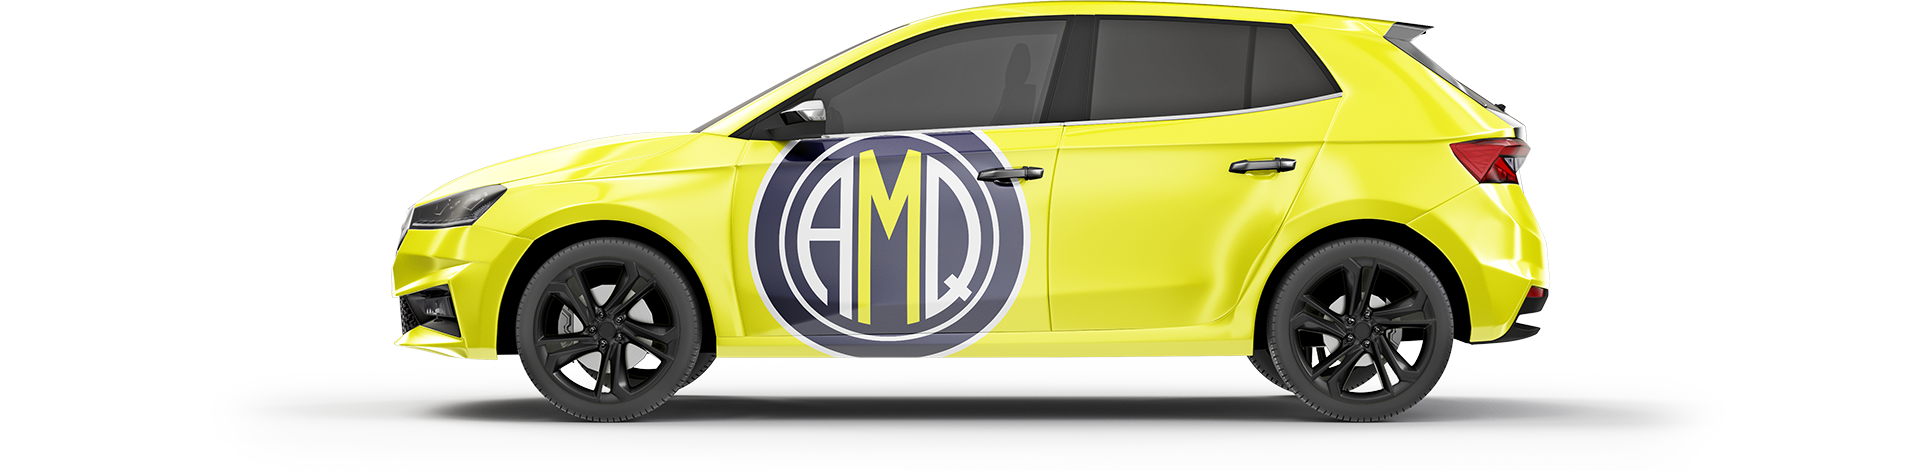
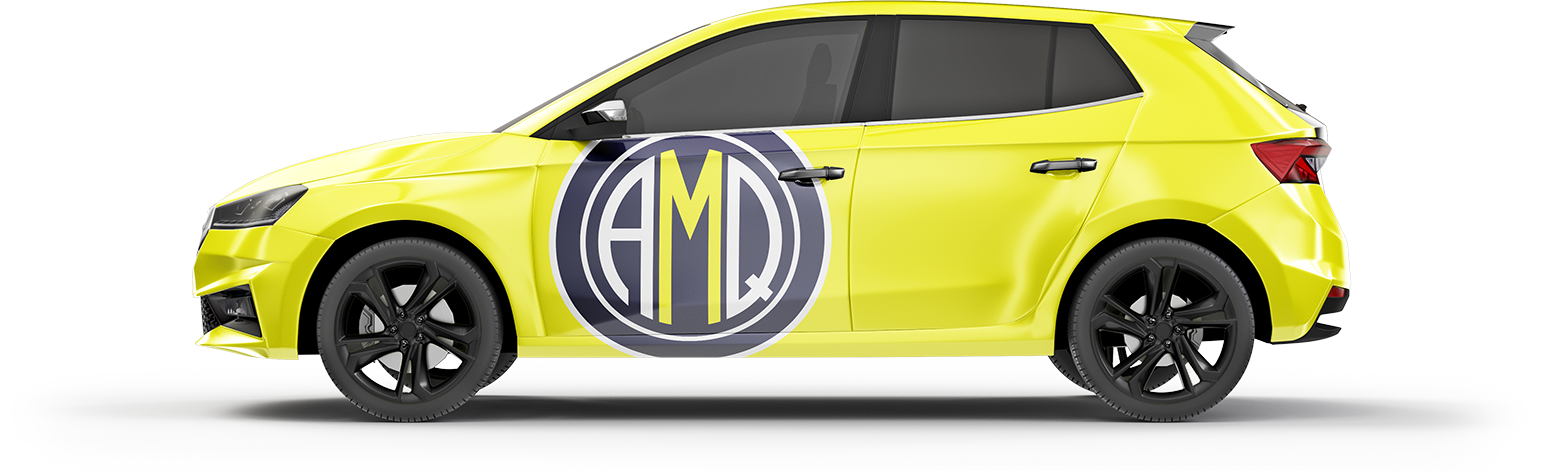
feat: add cta #2 section to home page

diff --git a/_components/home-page/cta-2-component.tsx b/_components/home-page/cta-2-component.tsx
@@ -1,0 +1,39 @@
+import Image from "next/image";
+import Link from "next/link";
+
+const Cta2Component = () => {
+  return (
+    <section className="relative -mx-5 overflow-hidden bg-blue pt-10 grid gap-8 desktop-small:grid-cols-[1fr_0.75fr] desktop-small:h-[480px] desktop-small:gap-0 desktop-small:-mx-50px desktop:h-[600px] desktop-large:grid-cols-[1fr_0.5fr] desktop-large:h-[700px]">
+      <h4 className="text-[40px] px-5 leading-[120%] tablet-small:text-[50px] text-white flex flex-col text-center desktop-small:pl-50px desktop-small:my-auto desktop-small:text-left min-[1350px]:text-[60px] desktop-large:text-[70px] full-hd:text-[90px]">
+        Sell your car with
+        <span className="text-yellow">Auto Marketplace QLD</span>
+        <Link
+          href="#"
+          aria-label="Sell My Car"
+          className="flex justify-center gap-1 p-2 -m-2 mx-auto text-white desktop-small:justify-start desktop-small:p-0 desktop-small:m-0 desktop-small:gap-2 desktop-small:mr-auto desktop-small:hover:text-yellow ease-in-out duration-300"
+        >
+          Sell My Car
+          <Image
+            src="/icons/click-bold-yellow.svg"
+            alt="Sell My Car"
+            width={166}
+            height={134}
+            className="w-[76px] h-auto -translate-y-1 desktop-small:translate-y-2 desktop-small:w-[90px] desktop:w-[100px] desktop-large:w-[120px] desktop-large:translate-y-2 desktop-large:translate-x-2 full-hd:w-[166px] full-hd:translate-y-4 full-hd:translate-x-4"
+          />
+        </Link>
+      </h4>
+      <div className="relative flex justify-center items-center desktop-small:block desktop-small:pb-0 desktop-small:place-self-center desktop-small:z-10">
+        <Image
+          src="/images/graphics/05a.png"
+          alt="Sell my car"
+          width={1500}
+          height={600}
+          className="w-full h-auto flex-shrink-0 desktop-small:absolute desktop-small:min-w-[1270px] desktop-small:-left-[420px] desktop-small:-top-[190px] desktop:min-w-[1470px] desktop:-top-[230px] desktop:-left-[35vw] desktop-large:min-w-[1750px] desktop-large:-top-[240px] desktop-large:-left-[40vw] full-hd:-left-[520px] full-hd:min-w-[1500px]"
+        />
+      </div>
+      <div className="bg-yellow h-[calc(100px+10vw)] -mt-[calc(40px+5vw)] tablet-small:-mt-[calc(50px+5vw)] desktop-small:mt-0 desktop-small:absolute desktop-small:w-1/4 desktop-small:h-full desktop-small:right-[50px]" />
+    </section>
+  );
+};
+
+export default Cta2Component;

diff --git a/_components/home-page/cta-component.tsx b/_components/home-page/cta-component.tsx
@@ -9,18 +9,18 @@ const CtaComponent = () => {
   const [ctaHover, setCtaHover] = useState(false);
 
   return (
-    <section className="-mx-5 desktop-small:-mx-50px desktop-small:relative desktop-small:h-[400px] desktop:h-[620px]">
+    <section className="-mx-5 overflow-hidden desktop-small:-mx-50px desktop-small:relative desktop-small:h-[400px] desktop:h-[620px]">
       <div className="bg-blue py-10 grid gap-8 desktop-small:grid-cols-[350px_1fr] desktop-small:h-full desktop:grid-cols-[450px_1fr] desktop-large:grid-cols-[440px_1fr]">
         <h4 className="text-[60px] px-5 leading-[120%] text-white flex flex-col text-center desktop-small:place-self-center desktop-small:text-left desktop-small:px-0 desktop-small:pl-50px desktop:text-[90px]">
           We sell <span className="text-yellow">so you don't have to.</span>
         </h4>
-        <div className="relative pb-[150px] min-[550px]:pb-[calc(24vw)] desktop-small:pb-0 desktop-small:place-self-center">
+        <div className="relative flex justify-center items-center desktop-small:block desktop-small:pb-0 desktop-small:place-self-center">
           <Image
             src="/images/graphics/05a.png"
             alt="Sell my car"
             width={1500}
             height={600}
-            className="min-w-[580px] h-auto absolute -left-24 min-[400px]:-left-20 phone:-left-14 min-[460]:-left-10 min-[500px]:-left-4 min-[550px]:left-0 desktop-small:min-w-[1200px] desktop-small:-left-[610px] desktop-small:-top-[130px] desktop:min-w-[1700px] desktop:-top-[160px] desktop:-left-[850px] desktop-large:min-w-[1920px] desktop-large:-top-[200px] desktop-large:-left-[1025px]"
+            className="w-full h-auto flex-shrink-0 desktop-small:absolute desktop-small:min-w-[970px] desktop-small:-left-[480px] desktop-small:-top-[130px] desktop:min-w-[1370px] desktop:-top-[160px] desktop:-left-[670px] desktop-large:min-w-[1550px] desktop-large:-top-[200px] desktop-large:-left-[825px]"
           />
         </div>
       </div>

diff --git a/app/page.tsx b/app/page.tsx
@@ -1,6 +1,7 @@
 import About2Component from "@/_components/home-page/about-2-component";
 import AboutComponent from "@/_components/home-page/about-component";
 import CarBrandsSlider from "@/_components/home-page/car-brands-slider";
+import Cta2Component from "@/_components/home-page/cta-2-component";
 import CtaComponent from "@/_components/home-page/cta-component";
 import HeroComponent from "@/_components/home-page/hero-component";
 import WelcomeComponent from "@/_components/home-page/welcome-component";
@@ -15,6 +16,7 @@ export default function Home() {
         <AboutComponent />
         <CtaComponent />
         <About2Component />
+        <Cta2Component />
       </div>
     </div>
   );

diff --git a/_components/navigation/footer/desktop/desktop-footer.tsx b/_components/navigation/footer/desktop/desktop-footer.tsx
@@ -13,7 +13,7 @@ export function DesktopFooter() {
         <Link
           href="/"
           aria-label="Auto Marketplace QLD - Home"
-          className="ease-in-out duration-300 hover:opacity-80"
+          className="ease-in-out duration-300 hover:opacity-80 mr-auto"
         >
           <Image
             src="/logo/amq-logo.png"
